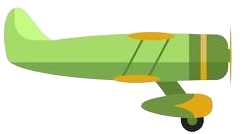
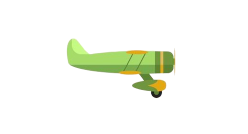
Redimensionnement des images+ajout boite de dialogue fin du jeu

diff --git a/Fenetre.java b/Fenetre.java
@@ -9,6 +9,10 @@ import java.util.ArrayList;
 import javax.imageio.ImageIO;
 import java.awt.image.BufferedImage;
 import java.io.*;
+import javax.swing.ImageIcon;
+import javax.swing.JOptionPane;
+import javax.swing.JOptionPane;
+
 
 
 public class Fenetre extends JFrame implements ActionListener, KeyListener{
@@ -43,7 +47,7 @@ public class Fenetre extends JFrame implements ActionListener, KeyListener{
         this.xBackground=0;
        
         setSize(width, height);
-        setLocation(200,200);
+        setLocation(0,100);
         setDefaultCloseOperation(JFrame.EXIT_ON_CLOSE);
         setLayout(null);
         
@@ -214,7 +218,7 @@ public class Fenetre extends JFrame implements ActionListener, KeyListener{
                 System.out.println(obj);
                 if (av != obj) {
                     if (av.collison(obj)) {
-                        System.out.println("Collision entre " + av.toString() + " et " + obj.toString());
+                        //System.out.println("Collision entre " + av.toString() + " et " + obj.toString());
                         if(obj instanceof Bombe){
                             //av.vie=av.vie-obj.degatbombe;
                             av.vie=av.vie-3;
@@ -277,10 +281,21 @@ public class Fenetre extends JFrame implements ActionListener, KeyListener{
         }
         
         if (avions.get(0).vie==0){
-			scoreFinal=var1/100;
+			scoreFinal=var1/100; //score final
+			timer.stop(); //arreter le timer (figer le jeu)
+			JOptionPane jop = new JOptionPane();    	
+      int option = jop.showConfirmDialog(null, 
+        "GAME OVER! Score : "+Integer.toString(scoreFinal)+"\n"+" Rejouer ?", 
+        "Game over", JOptionPane.YES_NO_OPTION, JOptionPane.QUESTION_MESSAGE); //création boite de dialogue
+        if (option==JOptionPane.YES_OPTION){
+			this.setVisible(false);	
+		}else if(option==JOptionPane.NO_OPTION){
+			System.exit(0); //arreter le programme
 		}
+	}
         
         texteScore="Score: "+Integer.toString(var1/100);
+        System.out.println(avions.get(0).vie);
         xBackground -= vBackground; // position actualisée avec la vitesse de l'arrière plan
         repaint(); // appel a la methode paint 
          

diff --git a/Magasin.java b/Magasin.java
@@ -29,7 +29,7 @@ public Magasin () {
 			this.setLayout(null);
 			this.setResizable(false);
 			this.setSize(987,593);
-			this.setLocation(450,200); //position de la fenetre sur l'écran
+			this.setLocation(200,200); //position de la fenetre sur l'écran
 			
 			Toolkit kit = Toolkit.getDefaultToolkit();
 			

diff --git a/Mondes.java b/Mondes.java
@@ -27,7 +27,7 @@ public Mondes () {
 			this.setLayout(null);
 			this.setResizable(false);
 			this.setSize(987,593);
-			this.setLocation(450,200); //position de la fenetre sur l'écran
+			this.setLocation(200,200); //position de la fenetre sur l'écran
 			
 			Toolkit kit = Toolkit.getDefaultToolkit();
 			

diff --git a/Main.java b/Main.java
@@ -1,7 +1,8 @@
 public class Main {
 	
-	public static void main (String[] args) {     
-		Fenetre fenetre=new Fenetre();
+	public static void main (String[] args) {  
+		Menu menu=new Menu();   
+		//Fenetre fenetre=new Fenetre();
 	}
 }
 
